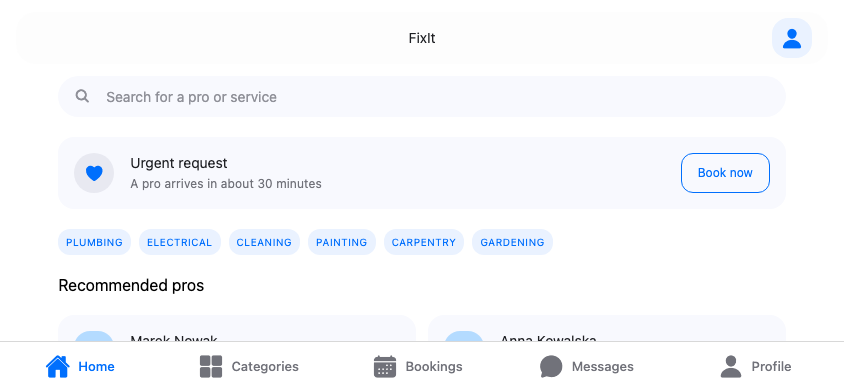
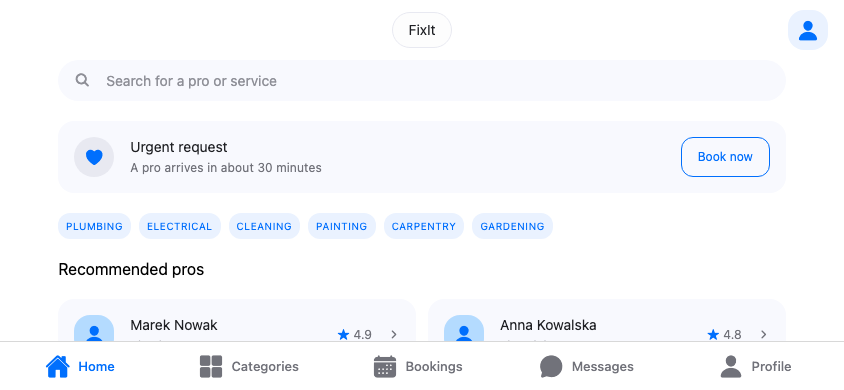
fix: split Header into 3 independent glass pieces, not one shared tile
Merging back button + title into a single glass capsule wasn't the
ask — Slack's nav bar (the actual reference) has the back chevron,
the title, and the huddle button as three separate floating elements
side by side, not one shared background behind all of them. Back
button is its own glass circle again; title is its own glass pill;
the right slot (Avatar today, a future icon button) stays independent
too — a future button placed there should wrap itself in its own
<GlassSurface>, same pattern as the back button, documented on the
prop now.

diff --git a/src/components/Header/Header.tsx b/src/components/Header/Header.tsx
@@ -10,32 +10,35 @@ export type HeaderProps = {
   title: string;
   /** Renders a back chevron on the left and calls this when tapped. */
   onBackPress?: () => void;
-  /** Custom right-side slot — an Avatar, an icon button, or nothing. */
+  /**
+   * Custom right-side slot — an Avatar, or a future icon button. A button
+   * placed here should wrap itself in its own <GlassSurface>, same as the
+   * back button, to match — this slot doesn't force any styling of its own.
+   */
   rightElement?: ReactNode;
 };
 
-const BAR_HEIGHT = 52;
+const PIECE_HEIGHT = 36;
 const TOP_OFFSET = spacing.sm;
 
 /** How much top padding a screen needs so content doesn't scroll under the floating header. */
 export function useFloatingHeaderClearance() {
   const insets = useSafeAreaInsets();
-  return insets.top + TOP_OFFSET + BAR_HEIGHT + spacing.sm;
+  return insets.top + TOP_OFFSET + PIECE_HEIGHT + spacing.sm;
 }
 
 /**
- * A floating Liquid Glass capsule, same visual language as TabBar (rounded,
- * shadow, no hard divider line) rather than a flat docked bar with a hairline
- * border — that read as a plain opaque UI bar and didn't match the tab bar at
- * all. Still gives the title a real background so it doesn't collide with
- * whatever's scrolled underneath, iOS/Slack nav-bar style.
+ * Three independent Liquid Glass pieces in a row — back button, title,
+ * (future) right-side action — not one shared tile behind all of them.
+ * Matches Slack's nav bar: a back chevron, a title, and a huddle button all
+ * float as their own elements over the same content, side by side.
  */
 export function Header({ title, onBackPress, rightElement }: HeaderProps) {
   const insets = useSafeAreaInsets();
 
   return (
     <View style={[styles.floatingLayer, { top: insets.top + TOP_OFFSET }]} pointerEvents="box-none">
-      <GlassSurface style={styles.bar}>
+      <View style={styles.row}>
         <View style={styles.side}>
           {onBackPress ? (
             <Pressable
@@ -44,17 +47,21 @@ export function Header({ title, onBackPress, rightElement }: HeaderProps) {
               hitSlop={8}
               onPress={onBackPress}
             >
-              <Ionicons name="chevron-back" size={22} color={colors.textPrimary} />
+              <GlassSurface style={styles.backButton} isInteractive>
+                <Ionicons name="chevron-back" size={18} color={colors.textPrimary} />
+              </GlassSurface>
             </Pressable>
           ) : null}
         </View>
 
-        <Text style={[typography.h4, styles.title]} numberOfLines={1}>
-          {title}
-        </Text>
+        <GlassSurface style={styles.titlePill}>
+          <Text style={[typography.h4, styles.title]} numberOfLines={1}>
+            {title}
+          </Text>
+        </GlassSurface>
 
         <View style={[styles.side, styles.rightSide]}>{rightElement}</View>
-      </GlassSurface>
+      </View>
     </View>
   );
 }
@@ -67,14 +74,12 @@ const styles = StyleSheet.create({
     left: 0,
     right: 0,
   },
-  bar: {
-    height: BAR_HEIGHT,
-    marginHorizontal: spacing.md,
-    borderRadius: radii.lg,
+  row: {
+    height: PIECE_HEIGHT,
     flexDirection: 'row',
     alignItems: 'center',
+    justifyContent: 'space-between',
     paddingHorizontal: spacing.md,
-    ...shadows.raised,
   },
   side: {
     width: SIDE_WIDTH,
@@ -83,9 +88,30 @@ const styles = StyleSheet.create({
   rightSide: {
     alignItems: 'flex-end',
   },
+  backButton: {
+    width: PIECE_HEIGHT,
+    height: PIECE_HEIGHT,
+    borderRadius: radii.round,
+    alignItems: 'center',
+    justifyContent: 'center',
+    // The glass fill alone is nearly invisible with nothing behind it to
+    // blur — a rim keeps each piece readable as its own shape regardless.
+    borderWidth: StyleSheet.hairlineWidth,
+    borderColor: colors.surfaceMedium,
+    ...shadows.card,
+  },
+  titlePill: {
+    height: PIECE_HEIGHT,
+    maxWidth: '60%',
+    paddingHorizontal: spacing.md,
+    borderRadius: radii.pill,
+    alignItems: 'center',
+    justifyContent: 'center',
+    borderWidth: StyleSheet.hairlineWidth,
+    borderColor: colors.surfaceMedium,
+    ...shadows.card,
+  },
   title: {
-    flex: 1,
-    textAlign: 'center',
     color: colors.textPrimary,
   },
 });
